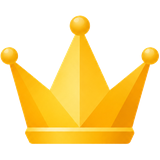
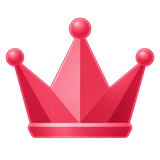
update uploaded files

diff --git a/web_grade_page.html b/web_grade_page.html
@@ -461,9 +461,11 @@
       background: #fff;
     }
 
-    .benefit-col.current-grade {
-      border: 2px solid var(--grade-vip);
-    }
+    /* 시안: 전 등급 컬럼을 각 등급 색으로 하이라이트 (실서비스는 로그인 등급 컬럼만) */
+    .benefit-col-standard { border: 2px solid var(--grade-std); }
+    .benefit-col-premium  { border: 2px solid var(--grade-pre); }
+    .benefit-col-vip      { border: 2px solid var(--grade-vip); }
+    .benefit-col-prestige { border: 2px solid var(--grade-prs); }
 
     .benefit-col-head {
       height: 80px;
@@ -473,11 +475,10 @@
       background: #fbf7f5;
     }
 
-    .benefit-col.current-grade .benefit-col-head {
-      margin: 0px 0px 0;
-      border-bottom-color: var(--grade-vip);
-      background: var(--grade-vip);
-    }
+    .benefit-col-standard .benefit-col-head { background: var(--grade-std); border-bottom-color: var(--grade-std); }
+    .benefit-col-premium  .benefit-col-head { background: var(--grade-pre); border-bottom-color: var(--grade-pre); }
+    .benefit-col-vip      .benefit-col-head { background: var(--grade-vip); border-bottom-color: var(--grade-vip); }
+    .benefit-col-prestige .benefit-col-head { background: var(--grade-prs); border-bottom-color: var(--grade-prs); }
 
     .bc-name {
       font-size: 18px;
@@ -518,12 +519,12 @@
       line-height: 1.1;
     }
 
-    .benefit-col.current-grade .bc-name {
+    .benefit-col-head .bc-name {
       color: #fff;
     }
 
-    .benefit-col.current-grade .bc-sub {
-      color: rgba(255,255,255,.78);
+    .benefit-col-head .bc-sub {
+      color: rgba(255,255,255,.82);
     }
 
     .bc-name-standard {
